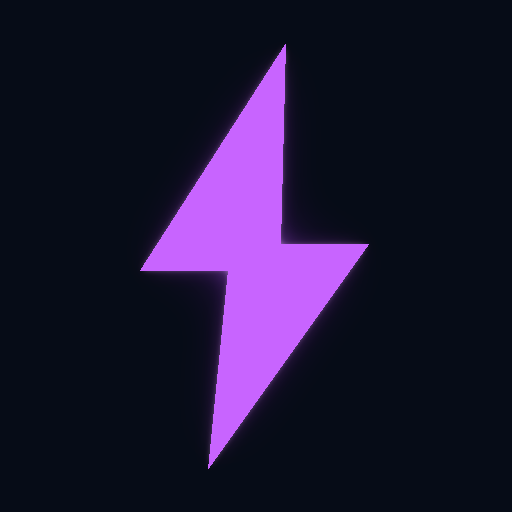
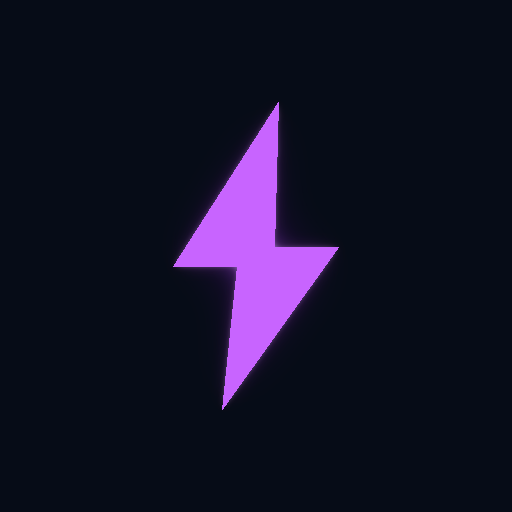
Updates

Changed region(s): [[0.2812, 0.0938, 0.7188, 0.9062]]

diff --git a/sw.js b/sw.js
@@ -1,1 +1,1 @@
-if(!self.define){let e,i={};const n=(n,s)=>(n=new URL(n+".js",s).href,i[n]||new Promise(i=>{if("document"in self){const e=document.createElement("script");e.src=n,e.onload=i,document.head.appendChild(e)}else e=n,importScripts(n),i()}).then(()=>{let e=i[n];if(!e)throw new Error(`Module ${n} didn’t register its module`);return e}));self.define=(s,c)=>{const o=e||("document"in self?document.currentScript.src:"")||location.href;if(i[o])return;let r={};const a=e=>n(e,o),t={module:{uri:o},exports:r,require:a};i[o]=Promise.all(s.map(e=>t[e]||a(e))).then(e=>(c(...e),r))}}define(["./workbox-6829fd8d"],function(e){"use strict";self.skipWaiting(),e.clientsClaim(),e.precacheAndRoute([{url:"registerSW.js",revision:"402b66900e731ca748771b6fc5e7a068"},{url:"index.html",revision:"fe2a74aee9ac5babbe19da5864c2a608"},{url:"icons.svg",revision:"3b4fcfcf393eca4d264dca4a4663bc37"},{url:"favicon.svg",revision:"7e840862161341271697daa99a40d76b"},{url:"icons/icon-512.png",revision:"8125767739a07ceb9d881004184989dc"},{url:"icons/icon-192.png",revision:"940a4ea694a87bc8a240942277be37ac"},{url:"assets/index-CXB8Qc64.js",revision:null},{url:"assets/index-BxttYb4k.css",revision:null},{url:"icons/icon-192.png",revision:"940a4ea694a87bc8a240942277be37ac"},{url:"icons/icon-512.png",revision:"8125767739a07ceb9d881004184989dc"},{url:"manifest.webmanifest",revision:"e2f3cc4c89da51ba814eb43e1f4b794d"}],{}),e.cleanupOutdatedCaches(),e.registerRoute(new e.NavigationRoute(e.createHandlerBoundToURL("index.html"))),e.registerRoute(/^https:\/\/fonts\.googleapis\.com\/.*/i,new e.CacheFirst({cacheName:"google-fonts-cache",plugins:[new e.ExpirationPlugin({maxEntries:10,maxAgeSeconds:31536e3})]}),"GET"),e.registerRoute(/^https:\/\/firestore\.googleapis\.com\/.*/i,new e.NetworkFirst({cacheName:"firestore-cache",plugins:[]}),"GET")});
+if(!self.define){let e,i={};const n=(n,s)=>(n=new URL(n+".js",s).href,i[n]||new Promise(i=>{if("document"in self){const e=document.createElement("script");e.src=n,e.onload=i,document.head.appendChild(e)}else e=n,importScripts(n),i()}).then(()=>{let e=i[n];if(!e)throw new Error(`Module ${n} didn’t register its module`);return e}));self.define=(s,c)=>{const o=e||("document"in self?document.currentScript.src:"")||location.href;if(i[o])return;let r={};const a=e=>n(e,o),d={module:{uri:o},exports:r,require:a};i[o]=Promise.all(s.map(e=>d[e]||a(e))).then(e=>(c(...e),r))}}define(["./workbox-6829fd8d"],function(e){"use strict";self.skipWaiting(),e.clientsClaim(),e.precacheAndRoute([{url:"registerSW.js",revision:"402b66900e731ca748771b6fc5e7a068"},{url:"index.html",revision:"fe2a74aee9ac5babbe19da5864c2a608"},{url:"icons.svg",revision:"3b4fcfcf393eca4d264dca4a4663bc37"},{url:"favicon.svg",revision:"7e840862161341271697daa99a40d76b"},{url:"icons/icon-maskable.png",revision:"dcd4cedd4256d2e2db3cdd374bf5e874"},{url:"icons/icon-512.png",revision:"97fbf11d01b11f51003534d4b95659d9"},{url:"icons/icon-192.png",revision:"689457968107cacd76b435a339aac9cd"},{url:"assets/index-CXB8Qc64.js",revision:null},{url:"assets/index-BxttYb4k.css",revision:null},{url:"icons/icon-192.png",revision:"689457968107cacd76b435a339aac9cd"},{url:"icons/icon-512.png",revision:"97fbf11d01b11f51003534d4b95659d9"},{url:"icons/icon-maskable.png",revision:"dcd4cedd4256d2e2db3cdd374bf5e874"},{url:"manifest.webmanifest",revision:"eba0a0ae21229aea295cb7e7aab3e064"}],{}),e.cleanupOutdatedCaches(),e.registerRoute(new e.NavigationRoute(e.createHandlerBoundToURL("index.html"))),e.registerRoute(/^https:\/\/fonts\.googleapis\.com\/.*/i,new e.CacheFirst({cacheName:"google-fonts-cache",plugins:[new e.ExpirationPlugin({maxEntries:10,maxAgeSeconds:31536e3})]}),"GET"),e.registerRoute(/^https:\/\/firestore\.googleapis\.com\/.*/i,new e.NetworkFirst({cacheName:"firestore-cache",plugins:[]}),"GET")});